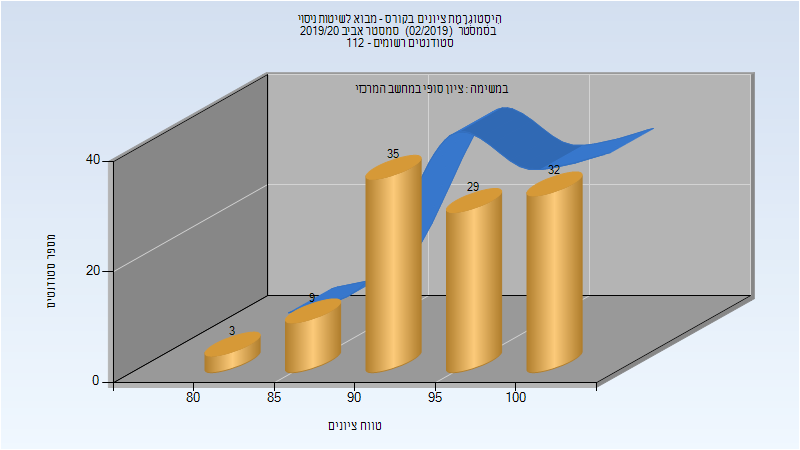
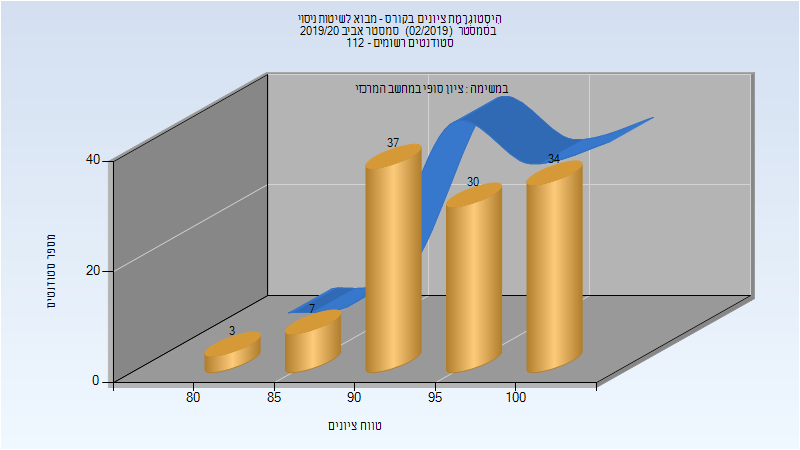
Deploy michael-maltsev/technion-histograms to github.com/michael-maltsev/technion-histograms.git:gh-pages

diff --git a/034044/index.html b/034044/index.html
@@ -662,12 +662,12 @@
 </thead>
 <tbody>
 <tr>
-<td>108</td>
-<td>108/0</td>
+<td>111</td>
+<td>111/0</td>
 <td>100</td>
 <td>83</td>
 <td>100</td>
-<td>94.907</td>
+<td>95.081</td>
 <td>96</td>
 </tr>
 </tbody>

diff --git a/034044/README.md b/034044/README.md
@@ -209,5 +209,5 @@
 
 | סטודנטים | עברו/נכשלו | אחוז עוברים | ציון מינימלי | ציון מקסימלי | ממוצע | חציון |
 | ---- | ---- | ---- | ---- | ---- | ---- | ---- |
-| 108 | 108/0 | 100 | 83 | 100 | 94.907 | 96 |
+| 111 | 111/0 | 100 | 83 | 100 | 95.081 | 96 |
 
